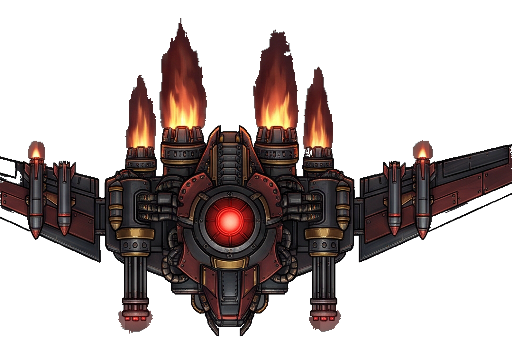
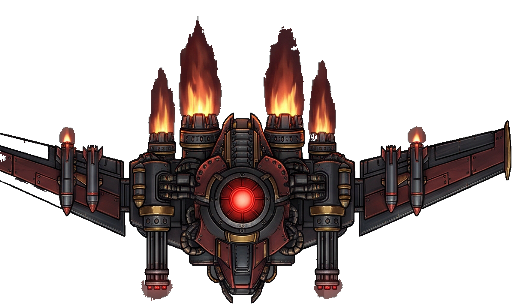
fix(plane): 修复 Boss 裁切与受击闪白，接入星云背景
- 扩大 Boss 裁切框补回两侧翼尖，收紧横向移动边界并调整视觉尺寸，保证整架飞机完整可见
- 受击闪白改为 0.12s 计时 + 0.4s 冷却，连续命中不再把重装机 / Boss 刷成常白
- 接入星云背景：素材脚本把 plane-bg.jpg 压成 720 宽 bg.jpg，painter 静态铺满并轻微压暗，避免双图滚动接缝
- 飞机大战接入 GameDebugMixin，dev 面板可跳波次验证 Boss
- 修正 inactive 生命周期导致的误暂停（输入法弹出时）

diff --git a/lib/games/plane/plane_game.dart b/lib/games/plane/plane_game.dart
@@ -14,6 +14,7 @@ import 'package:flutter/scheduler.dart';
 import 'package:flutter/services.dart';
 import 'package:wakelock_plus/wakelock_plus.dart';
 
+import '../../debug/game_debug_registry.dart';
 import '../../shared/best_score_store.dart';
 import '../../shared/game_shell.dart';
 import '../../shared/orientation.dart';
@@ -32,7 +33,8 @@ class PlanePage extends StatefulWidget {
 }
 
 class _PlanePageState extends State<PlanePage>
-    with SingleTickerProviderStateMixin, WidgetsBindingObserver {
+    with SingleTickerProviderStateMixin, WidgetsBindingObserver,
+        GameDebugMixin<PlanePage> {
   static const String _bestKey = 'best_plane';
 
   final PlaneScene _scene = PlaneScene();
@@ -110,7 +112,11 @@ class _PlanePageState extends State<PlanePage>
 
   @override
   void didChangeAppLifecycleState(AppLifecycleState state) {
-    if (state == AppLifecycleState.resumed) return;
+    // inactive 多由输入法/系统浮层触发（dev 调试面板输入时会短暂进入），不算切后台。
+    if (state == AppLifecycleState.resumed ||
+        state == AppLifecycleState.inactive) {
+      return;
+    }
     _keys.clear();
     // 切后台/来电时自动暂停：停帧期间累计的弹幕不会在回来瞬间「秒杀」玩家。
     if (_phase.value == PlanePhase.playing) _togglePause();
@@ -139,6 +145,44 @@ class _PlanePageState extends State<PlanePage>
     _sprites = sprites;
     _painter.sprites = sprites;
     _frame.value++; // 立即重绘为精灵版本
+  }
+
+  // ---- dev 调试面板：仅开发包注册，可直接跳波次验证重装机 / Boss ----
+  @override
+  String get id => 'plane';
+
+  @override
+  Map<String, String> info() => {
+        '波次': '$_wave',
+        '分数': '$_score',
+        '敌机': '${_scene.enemies.length}',
+        '火力': 'Lv.${_scene.player.power}',
+        'Boss': _bossActive ? '在场' : '无',
+      };
+
+  @override
+  int? get currentLevel => _wave;
+
+  @override
+  int? get maxLevel => null; // 无尽模式
+
+  @override
+  void jumpToLevel(int n) {
+    final wave = n.clamp(1, 99).toInt();
+    _scene.enemies.clear();
+    _scene.enemyBullets.clear();
+    _scene.bullets.clear();
+    _wave = wave;
+    _spawned = 0;
+    _quota = planeWaveQuota(wave);
+    _spawnCd = 0.6;
+    _bossActive = false;
+    if (wave % kBossEveryWaves == 0) _spawnBoss();
+    if (_phase.value == PlanePhase.ready ||
+        _phase.value == PlanePhase.gameOver) {
+      _phase.value = PlanePhase.playing;
+    }
+    _syncHud();
   }
 
   // ---- 帧循环 ----
@@ -364,14 +408,20 @@ class _PlanePageState extends State<PlanePage>
     final p = _scene.player;
     for (final e in _scene.enemies) {
       e.t += dt;
+      if (e.hitFlash > 0) {
+        e.hitFlash = math.max(0.0, e.hitFlash - dt);
+      }
+      if (e.flashCooldown > 0) {
+        e.flashCooldown = math.max(0.0, e.flashCooldown - dt);
+      }
       if (e.kind == EnemyKind.boss) {
         if (e.y < 105) e.y += 62 * dt; // 入场后停在上半屏
         e.x += e.vx * dt;
-        if (e.x < 76) {
-          e.x = 76;
+        if (e.x < kBossMoveMargin) {
+          e.x = kBossMoveMargin;
           e.vx = e.vx.abs();
-        } else if (e.x > kPlaneW - 76) {
-          e.x = kPlaneW - 76;
+        } else if (e.x > kPlaneW - kBossMoveMargin) {
+          e.x = kPlaneW - kBossMoveMargin;
           e.vx = -e.vx.abs();
         }
       } else if (e.kind == EnemyKind.zigzag) {
@@ -475,6 +525,10 @@ class _PlanePageState extends State<PlanePage>
         if (e.dead || !b.rect.overlaps(e.rect)) continue;
         b.dead = true;
         e.hp -= b.damage;
+        if (e.flashCooldown <= 0) {
+          e.hitFlash = kHitFlashDuration;
+          e.flashCooldown = kHitFlashCooldown;
+        }
         _spark(b.x, b.y);
         _sound.hit();
         if (e.hp <= 0) _killEnemy(e);
@@ -707,6 +761,7 @@ class _PlanePageState extends State<PlanePage>
       if (e.hp <= 0) {
         _killEnemy(e);
       } else {
+        e.hitFlash = kHitFlashDuration;
         _explode(e.x, e.y, big: false);
       }
     }

diff --git a/tool/gen_plane_sprites.dart b/tool/gen_plane_sprites.dart
@@ -72,10 +72,11 @@ const List<GroupSpec> _groups = [
     FrameSpec(file: 'plane-1.jpg', x: 1508, y: 1039, w: 448, h: 477, rotate: 180),
     FrameSpec(file: 'plane-1.jpg', x: 2063, y: 1014, w: 448, h: 502, rotate: 180),
   ]),
-  // 图 2 STYLE A：重装机械 Boss（两帧，整图两行相邻，手工给框）
+  // 图 2 STYLE A：重装机械 Boss（两帧）。
+  // 机翼横向跨度到 x≈68 / x≈2685，框必须留足两边，否则翼尖会被切平。
   GroupSpec(id: 'boss', maxSide: 512, frames: [
-    FrameSpec(file: 'plane-2.jpg', x: 100, y: 75, w: 1080, h: 780, rotate: 180),
-    FrameSpec(file: 'plane-2.jpg', x: 1600, y: 75, w: 1080, h: 780, rotate: 180),
+    FrameSpec(file: 'plane-2.jpg', x: 40, y: 60, w: 1220, h: 820, rotate: 180),
+    FrameSpec(file: 'plane-2.jpg', x: 1560, y: 60, w: 1192, h: 820, rotate: 180),
   ]),
   // 图 3 STYLE A：高科技流线型玩家机（机头已朝上，两帧）
   GroupSpec(id: 'player', maxSide: 288, frames: [
@@ -92,7 +93,14 @@ void main(List<String> args) {
           .decodeJpg(File('$_srcDir/$file').readAsBytesSync())!
           .convert(numChannels: 4);
       _removeBackground(im);
-      final bands = _detectBands(im, horizontal: true, gap: 25, minSize: 60);
+      // 图 2 上下两行 Boss 之间几乎相连，限定上半部分才能分出 STYLE A 的两帧
+      final bands = _detectBands(
+        im,
+        horizontal: true,
+        gap: 25,
+        minSize: 60,
+        to: file == 'plane-2.jpg' ? 860 : null,
+      );
       stdout.writeln('== $file');
       for (var r = 0; r < bands.length; r++) {
         final band = bands[r];
@@ -192,9 +200,32 @@ void main(List<String> args) {
     previewFrames[group.id] = outFrames;
   }
 
+  _writeBackground();
+
   if (preview) {
     _writePreview(previewFrames);
   }
+}
+
+/// 星云背景：等比缩到 720 宽（约 2x 屏幕密度），JPEG 质量 85。
+/// 原图 1440x2912 / 2.4MB 直接打包太浪费；运行时仍按世界画布铺满绘制。
+void _writeBackground() {
+  const src = '$_srcDir/plane-bg.jpg';
+  const out = '$_outDir/bg.jpg';
+  final file = File(src);
+  if (!file.existsSync()) {
+    stdout.writeln('skip background: $src not found');
+    return;
+  }
+  final original = img.decodeJpg(file.readAsBytesSync())!;
+  final resized = img.copyResize(
+    original,
+    width: 720,
+    interpolation: img.Interpolation.cubic,
+  );
+  final bytes = img.encodeJpg(resized, quality: 85);
+  File(out).writeAsBytesSync(bytes);
+  stdout.writeln('$out  ${resized.width}x${resized.height}  bytes=${bytes.length}');
 }
 
 /// 从四边泛洪去掉棋盘格背景。只处理与画布边缘连通的灰白像素，
@@ -339,7 +370,9 @@ List<_Band> _detectBands(
 }) {
   if (horizontal) {
     final counts = List<int>.filled(im.height, 0);
-    for (var y = 0; y < im.height; y++) {
+    final y0 = from ?? 0;
+    final y1 = to ?? im.height;
+    for (var y = y0; y < y1; y++) {
       var n = 0;
       for (var x = 0; x < im.width; x += 2) {
         if (im.getPixel(x, y).a > 8) n++;

diff --git a/lib/games/plane/plane_painter.dart b/lib/games/plane/plane_painter.dart
@@ -60,6 +60,28 @@ class PlanePainter extends CustomPainter {
 
   // ---- 背景 ----
   void _drawBackground(Canvas canvas) {
+    final bg = sprites?.background;
+    if (bg == null) {
+      _drawFallbackBackground(canvas);
+      return;
+    }
+    // 单张铺满：双图首尾相接会在接合处出现明显横线（原图不是无缝平铺素材）。
+    // 流动感由前景滚动的星星提供，背景不做滚动。
+    canvas.drawImageRect(
+      bg.image,
+      bg.src,
+      const Rect.fromLTWH(0, 0, kPlaneW, kPlaneH),
+      _bgImagePaint,
+    );
+    // 轻微压暗：星云较亮，保证子弹与飞机轮廓仍清晰
+    canvas.drawRect(
+      const Rect.fromLTWH(0, 0, kPlaneW, kPlaneH),
+      _bgDimPaint,
+    );
+  }
+
+  /// 背景图加载失败时退回原来的渐变 + 星云 + 网格背景。
+  void _drawFallbackBackground(Canvas canvas) {
     canvas.drawRect(
       const Rect.fromLTWH(0, 0, kPlaneW, kPlaneH),
       _bgPaint,
@@ -130,7 +152,7 @@ class PlanePainter extends CustomPainter {
           e.y,
           _spriteHeight(e.kind),
           kEnemySpriteAnchor,
-          paint: e.hp < e.maxHp ? _spriteHurtPaint : _spritePaint,
+          paint: e.hitFlash > 0 ? _spriteHurtPaint : _spritePaint,
         );
       } else {
         _drawEnemyGeometry(canvas, e);
@@ -200,13 +222,10 @@ class PlanePainter extends CustomPainter {
     canvas.drawPath(path, _enemyStroke..color = color.withValues(alpha: 0.85));
     if (e.kind != EnemyKind.boss) {
       canvas.drawCircle(const Offset(0, -2), 3.2, _enemyCockpit);
-      if (e.hp < e.maxHp) {
+      if (e.hitFlash > 0) {
         canvas.drawPath(
           path,
-          _enemyHurt
-            ..color = Colors.white.withValues(
-              alpha: 0.15 + 0.15 * math.sin(scene.time * 20),
-            ),
+          _enemyHurt..color = Colors.white.withValues(alpha: 0.45),
         );
       }
     } else {
@@ -353,6 +372,10 @@ class PlanePainter extends CustomPainter {
         Color(0xFF123054),
       ],
     ).createShader(const Rect.fromLTWH(0, 0, kPlaneW, kPlaneH));
+
+  static final Paint _bgImagePaint = Paint()
+    ..filterQuality = FilterQuality.medium;
+  static final Paint _bgDimPaint = Paint()..color = const Color(0x33081420);
 
   // 不用 MaskFilter.blur：大半径模糊椭圆每帧走 GPU 光栅化，
   // 在低端机上会明显掉帧；纯半透明椭圆已足够表现星云。

diff --git a/lib/games/plane/plane_sprites.dart b/lib/games/plane/plane_sprites.dart
@@ -30,6 +30,9 @@ class PlaneSprites {
 
   final Map<String, List<SpriteFrame>> _frames;
 
+  /// 星云背景，独立于机型帧；加载失败时 painter 回退渐变背景。
+  SpriteFrame? background;
+
   static const Map<String, List<String>> _manifest = {
     'player': [
       'assets/image/plane/player_1.png',
@@ -55,7 +58,7 @@ class PlaneSprites {
     ],
   };
 
-  bool get isEmpty => _frames.isEmpty;
+  bool get isEmpty => _frames.isEmpty && background == null;
 
   /// 逐帧加载；单帧失败只跳过该帧，painter 会退回几何绘制。
   static Future<PlaneSprites> load() async {
@@ -80,7 +83,22 @@ class PlaneSprites {
       }
       if (list.isNotEmpty) map[entry.key] = list;
     }
-    return PlaneSprites._(map);
+    final sprites = PlaneSprites._(map);
+    try {
+      final data = await rootBundle.load('assets/image/plane/bg.jpg');
+      final codec = await ui.instantiateImageCodec(
+        data.buffer.asUint8List(),
+      );
+      try {
+        final frame = await codec.getNextFrame();
+        sprites.background = SpriteFrame(frame.image);
+      } finally {
+        codec.dispose();
+      }
+    } on Object {
+      // 背景缺失时 painter 使用渐变兜底，不影响游戏
+    }
+    return sprites;
   }
 
   /// 按时间取动画帧：火焰状态循环播放。
@@ -98,5 +116,7 @@ class PlaneSprites {
       }
     }
     _frames.clear();
+    background?.image.dispose();
+    background = null;
   }
 }

diff --git a/lib/games/plane/plane_constants.dart b/lib/games/plane/plane_constants.dart
@@ -59,5 +59,13 @@ const double kPlayerSpriteAnchor = 0.35;
 const double kScoutSpriteH = 38;
 const double kZigzagSpriteH = 42;
 const double kHeavySpriteH = 48;
-const double kBossSpriteH = 112;
+const double kBossSpriteH = 104;
 const double kEnemySpriteAnchor = 0.65;
+
+// Boss 精灵比碰撞体宽，横向移动边界按视觉半宽收紧，保证整架飞机始终在画布内。
+const double kBossMoveMargin = 96;
+
+// 中弹闪白：持续时长 + 再触发冷却。自动开火会连续命中，
+// 没有冷却的话高血量敌机会一直处于闪白状态。
+const double kHitFlashDuration = 0.12;
+const double kHitFlashCooldown = 0.40;

diff --git a/test/plane_sprites_test.dart b/test/plane_sprites_test.dart
@@ -11,6 +11,7 @@ void main() {
     final sprites = await PlaneSprites.load();
     try {
       expect(sprites.isEmpty, isFalse);
+      expect(sprites.background, isNotNull, reason: '缺少星云背景');
       for (final id in ['player', 'scout', 'zigzag', 'heavy', 'boss']) {
         expect(sprites.pick(id, 0, 1), isNotNull, reason: '缺少 $id 的动画帧');
       }

diff --git a/lib/games/plane/plane_entities.dart b/lib/games/plane/plane_entities.dart
@@ -77,6 +77,8 @@ class Enemy {
   final int maxHp, score;
   double t = 0;
   double fireCd;
+  double hitFlash = 0; // 中弹闪白剩余时间，>0 时才用高亮画笔
+  double flashCooldown = 0; // 闪白再触发冷却，防止连发子弹把敌机刷成常白
   bool dead = false;
 
   Rect get rect => Rect.fromCenter(center: Offset(x, y), width: w, height: h);

diff --git a/README.md b/README.md
@@ -71,7 +71,7 @@ release 构建使用 Android debug 签名。CI 与本地各自生成 debug keyst
 | 状态 / 路由 | 原生 `StatefulWidget` + `ValueNotifier`，Navigator 1.0；无 Provider / Riverpod / go_router |
 | 渲染 | `CustomPaint` 手绘 + `RepaintBoundary` 分层；`shouldRepaint => false`，由 `ValueNotifier` 逐帧驱动重绘，不逐帧 `setState` 整页 |
 | 主循环 | `Ticker`（对齐 vsync，坦克 / 飞机）或 `Timer.periodic`（吃豆人等） |
-| 资源 | 音效由代码合成；飞机大战使用设计稿裁切的精灵图（`assets/image/plane/`，火焰 2~3 帧循环），其余游戏仍为纯手绘；BGM 由 `bgm_synth.dart` 实时合成 |
+| 资源 | 音效由代码合成；飞机大战使用设计稿裁切的精灵图（`assets/image/plane/`，火焰 2~3 帧循环）与星云背景 `bg.jpg`，其余游戏仍为纯手绘；BGM 由 `bgm_synth.dart` 实时合成 |
 | 持久化 | `shared_preferences`，成绩与静音设置仅存本机 |
 | 平台 | Android 完整可用；`web/` / `windows/` 仍是 Flutter 模板，未适配蓝牙与方向通道 |
 
@@ -88,7 +88,7 @@ lib/
   shared/                音效池、BGM、成绩、摇杆、滑动、外壳、方向、联机
   debug/                 FPS 浮层、跳关面板、调试注册接口
 assets/sounds/           代码合成的短音效 wav
-assets/image/plane/      飞机大战精灵图（设计稿裁切生成，火焰多帧）
+assets/image/plane/      飞机大战精灵图 + 压缩后的星云背景
 tool/                    构建与素材生成脚本
 test/                    注册表冒烟、联机协议、吃豆人引擎
 .github/workflows/       APK 自动构建发布
@@ -125,7 +125,7 @@ flutter build apk --flavor dev --release --dart-define=MODE=dev
 | `build_prod.bat` | 构建 prod release，并打印产物与 adb 安装命令 |
 | `build_dev.bat` | 构建 dev release（已带 `--dart-define=MODE=dev`） |
 | `gen_sounds.dart` | `dart run tool/gen_sounds.dart` 重新合成 `assets/sounds/*.wav` |
-| `gen_plane_sprites.dart` | `dart run tool/gen_plane_sprites.dart` 从 `assets/image/*.jpg` 设计稿裁切、去棋盘格背景、按机头对齐并导出 `assets/image/plane/*.png`；加 `--preview` 输出拼图预览 |
+| `gen_plane_sprites.dart` | `dart run tool/gen_plane_sprites.dart` 从设计稿裁切、去棋盘格背景、按机头对齐导出 `assets/image/plane/*.png`，并把 `plane-bg.jpg` 压成 `bg.jpg`；加 `--preview` 输出拼图预览 |
 | `gen_dev_icon.dart` | 生成 dev 版红色角标启动图标 |
 | `sync_web_icons.dart` | 以 Android 主图标为源同步 `web/icons/` |
 
@@ -135,7 +135,7 @@ flutter build apk --flavor dev --release --dart-define=MODE=dev
 
 `--dart-define=MODE=dev` 注入后 `kIsDev` 为编译期 true；prod 包不传该参数，dev-only 分支会被 tree-shake。dev 包名 `com.jhh.tank_app.dev`、应用名 `GAMEBOX Dev`、红色角标图标，可与 prod 版共存安装。
 
-dev 包会挂载可拖动的调试浮层：实时显示 FPS，点击展开面板可查看当前游戏信息与关卡，并给已接入 `GameDebugMixin` 的游戏提供跳关能力（无尽关卡类游戏为调整关卡，纯分数类游戏隐藏跳关区）。
+dev 包会挂载可拖动的调试浮层：实时显示 FPS，点击展开面板可查看当前游戏信息与关卡，并给已接入 `GameDebugMixin` 的游戏提供跳关能力（无尽关卡类游戏为调整关卡，纯分数类游戏隐藏跳关区）。飞机大战已接入，输入波次即可跳到第 4 / 8 波直接查看重装型与 Boss。
 
 ## 自动发布
 
